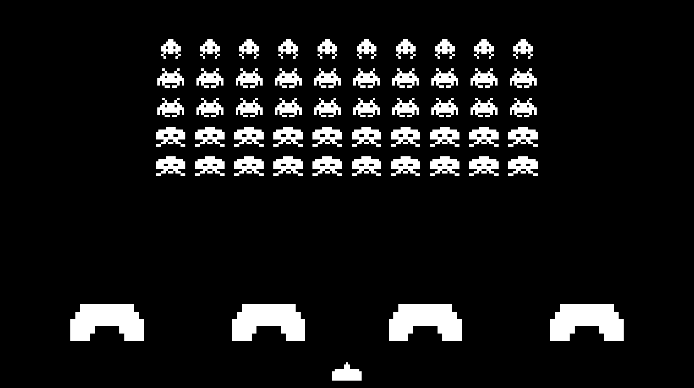
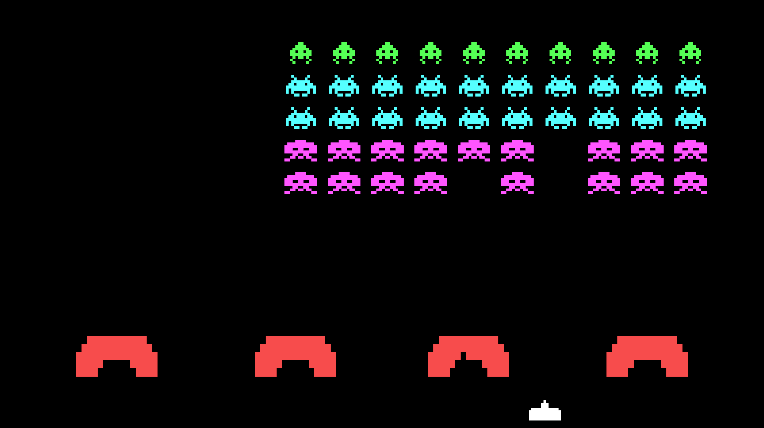
V 0.4
- Colors have been applied to the invaders
- Testing the basic movement of the invaders

diff --git a/Assets/__Scripts/GameManager.cs b/Assets/__Scripts/GameManager.cs
@@ -1,4 +1,14 @@
+using System;
+using System.Collections;
 using UnityEngine;
+
+public class InvaderGroupBound
+{
+    public float leftX;
+    public float rightX;
+    public float topY;
+    public float bottomY;
+}
 
 public class GameManager : MonoBehaviour
 {
@@ -8,33 +18,101 @@ public class GameManager : MonoBehaviour
     [SerializeField] float startPosY = 7.5f;
     [SerializeField] float stepX = -2f;
     [SerializeField] float stepY = -1.5f;
+    [SerializeField] float tick = 0.2f;
+    [SerializeField] float screenEdge = 15f;
+
+    int invaderDirection = 1;
+    int descentSteps = 2;
+    int descentCurrentSteps;
+    bool invaderDescent;
+
+    public static Action<InvaderGroupBound, Vector3> InvaderMove;
+    InvaderGroupBound info;
+
     int level = 0;
-    float tick = 1.0f;
+    bool isGameRunning = true;
 
     void Start()
     {
+        info = new InvaderGroupBound();
+        info.leftX = startPosX;
+        info.rightX = startPosX;
+        info.topY = startPosY;
+        info.bottomY = startPosY;
+
         LevelStart();
     }
 
     void LevelStart()
     {
         InitializeInvaders();
+        StartCoroutine(InvaderProcess());
     }
 
     void InitializeInvaders()
     {
-        int typeIndex = 0;
+        int invaderType = 0;
         for (int y = 0; y < 5; y++)
         {
             if (y == 1 || y == 3)
             {
-                typeIndex++;
+                invaderType++;
             }
             for (int x = 0; x < 10; x++)
             {
-                GameObject invader = invaderPool.GetInvader(InvaderPool.instance.invaderDatas[typeIndex].prefab);
+                GameObject invader = invaderPool.GetInvader(InvaderPool.instance.invaderDatas[invaderType].prefab);
                 invader.transform.position = new Vector3(startPosX + stepX * x, startPosY + stepY * y, 0);
             }
+        }
+    }
+
+    IEnumerator InvaderProcess()
+    {
+        while (isGameRunning)
+        {
+            yield return new WaitForSeconds(tick);
+            InvaderProgress();
+            //InvaderMove!.Invoke(info, Vector3.zero);
+        }
+    }
+
+    void InvaderProgress()
+    {
+        if (invaderDescent == true)
+        {
+            InvaderVerticalMove();
+        }
+        else
+        {
+            InvaderHorizontalMove();
+        }
+    }
+
+    void InvaderVerticalMove()
+    {
+        if (descentCurrentSteps == descentSteps)
+        {
+            invaderDescent = false;
+            descentCurrentSteps = 0;
+        }
+        else
+        {
+            InvaderMove!.Invoke(info, Vector3.down * 0.25f);
+            descentCurrentSteps++;
+        }
+    }
+
+    void InvaderHorizontalMove()
+    {
+        if ((info.rightX >= screenEdge && invaderDirection == 1) ||
+           (info.leftX <= -screenEdge && invaderDirection == -1))
+        {
+            invaderDirection *= -1;
+            invaderDescent = true;
+        }
+        else
+        {
+            InvaderMove!.Invoke(info, Vector3.right * 0.25f * invaderDirection);
         }
     }
 

diff --git a/Assets/__Scripts/Invader.cs b/Assets/__Scripts/Invader.cs
@@ -2,22 +2,69 @@ using System;
 using Unity.VisualScripting;
 using UnityEngine;
 
+
 public class Invader : MonoBehaviour
 {
     public int score;
-    public float color;
+    public Color color;
     public GameObject prefab;
     public static Action<GameObject, GameObject> OnRecycleInvader;
+    float screenEdge = 15f;
+
+    SpriteRenderer spriteRenderer;
+
 
     void Start()
     {
-        
+        spriteRenderer = GetComponentInChildren<SpriteRenderer>();
+        spriteRenderer.color = color;
+        GameManager.InvaderMove += InvaderMove;
     }
 
-    void Update()
+    void InvaderMove(InvaderGroupBound bound, Vector3 move)
     {
-        
+        transform.Translate(move);
+        float myPositionX = transform.position.x;
+        float myPositionY = transform.position.y;
+
+        if (move.x > 0)
+        {
+            if (myPositionX > bound.rightX)
+            {
+                bound.rightX = myPositionX;
+            }
+            if (myPositionX > bound.leftX)
+            {
+                bound.leftX = myPositionX;
+            }
+        }
+
+        if (move.x < 0)
+        {
+            if (myPositionX < bound.rightX)
+            {
+                bound.rightX = myPositionX;
+            }
+            if (myPositionX < bound.leftX)
+            {
+                bound.leftX = myPositionX;
+            }
+        }
+
+
+        if (myPositionY > bound.topY)
+        {
+            bound.topY = myPositionY;
+        }
+        if (myPositionY < bound.bottomY)
+        {
+            bound.bottomY = myPositionY;
+        }
     }
+
+
+
+
 
     void OnTriggerEnter2D(Collider2D other)
     {
@@ -26,5 +73,9 @@ public class Invader : MonoBehaviour
             OnRecycleInvader!.Invoke(gameObject, prefab);
         }
     }
+
+
+
+
 
 }

diff --git a/Assets/__Scripts/InvaderPool.cs b/Assets/__Scripts/InvaderPool.cs
@@ -16,6 +16,11 @@ public class InvaderPool : MonoBehaviour
         instance = this;
         Invader.OnRecycleInvader += RecycleInvader;
 
+        invaderPoolInitialize();
+    }
+
+    void invaderPoolInitialize()
+    {
         int typeIndex = 0;
 
         foreach (var invaderData in invaderDatas)
@@ -23,15 +28,22 @@ public class InvaderPool : MonoBehaviour
             Queue<GameObject> invaderQueue = new Queue<GameObject>();
             for (int i = 0; i < poolSize[typeIndex]; i++)
             {
-                GameObject invader = Instantiate(invaderData.prefab);
-                Invader invaderObj = invader.GetComponent<Invader>();
-                invaderObj.prefab = invaderData.prefab;
-                invader.SetActive(false);
-                invaderQueue.Enqueue(invader);
+                invaderPoolPopulate(invaderQueue, invaderData);
             }
             invaderPools.Add(invaderData.prefab, invaderQueue);
             typeIndex++;
         }
+    }
+
+    void invaderPoolPopulate(Queue<GameObject> invaderQueue, InvaderData invaderData)
+    {
+        GameObject invaderInstance = Instantiate(invaderData.prefab);
+        Invader invader = invaderInstance.GetComponent<Invader>();
+        invader.score = invaderData.score;
+        invader.color = invaderData.color;
+        invader.prefab = invaderData.prefab;
+        invaderInstance.SetActive(false);
+        invaderQueue.Enqueue(invaderInstance);
     }
 
     void OnDisable()

diff --git a/README.md b/README.md
@@ -17,6 +17,10 @@ I'm planning to create a retro arcade game, Space Invaders clone, using Unity 6.
 ![screenshot](Assets/Screenshot/Screenshot01.png)
 
 ## Version History (버전 내역)
+**V 0.4 - (2025-01-10)**
+- Colors have been applied to the invaders and bunkers
+- Testing the basic movement of the invaders
+
 **V 0.3 - (2025-01-10)**
 - Invaders pool implemented (using dictionary and queue )
 - Testing invaders spawning routine
